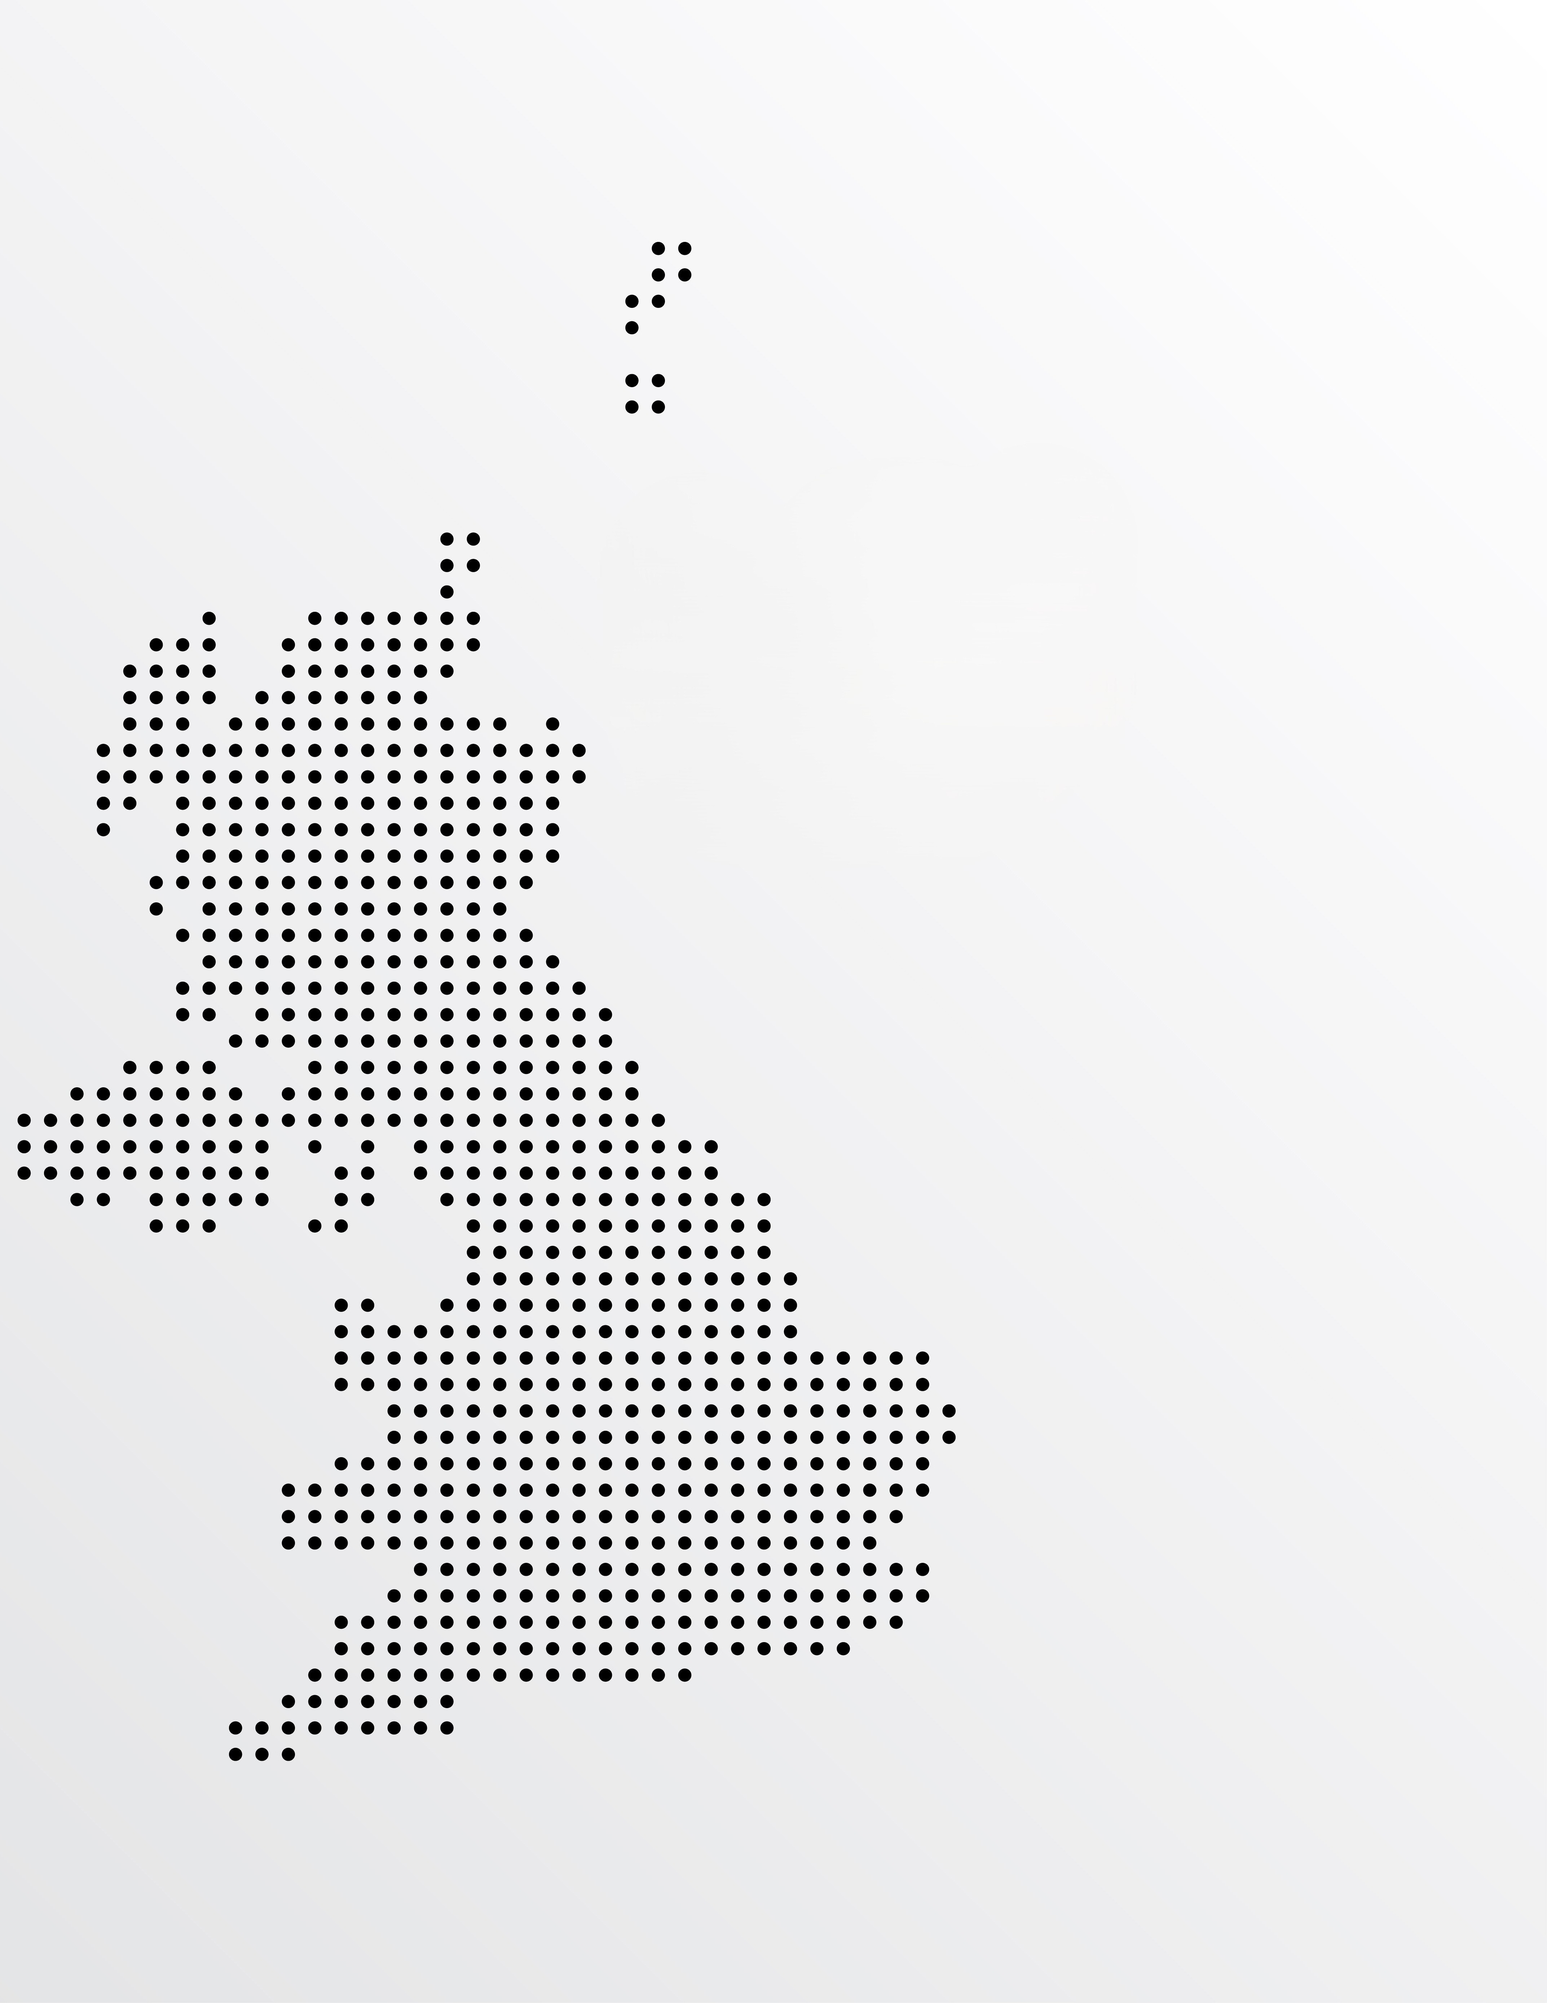
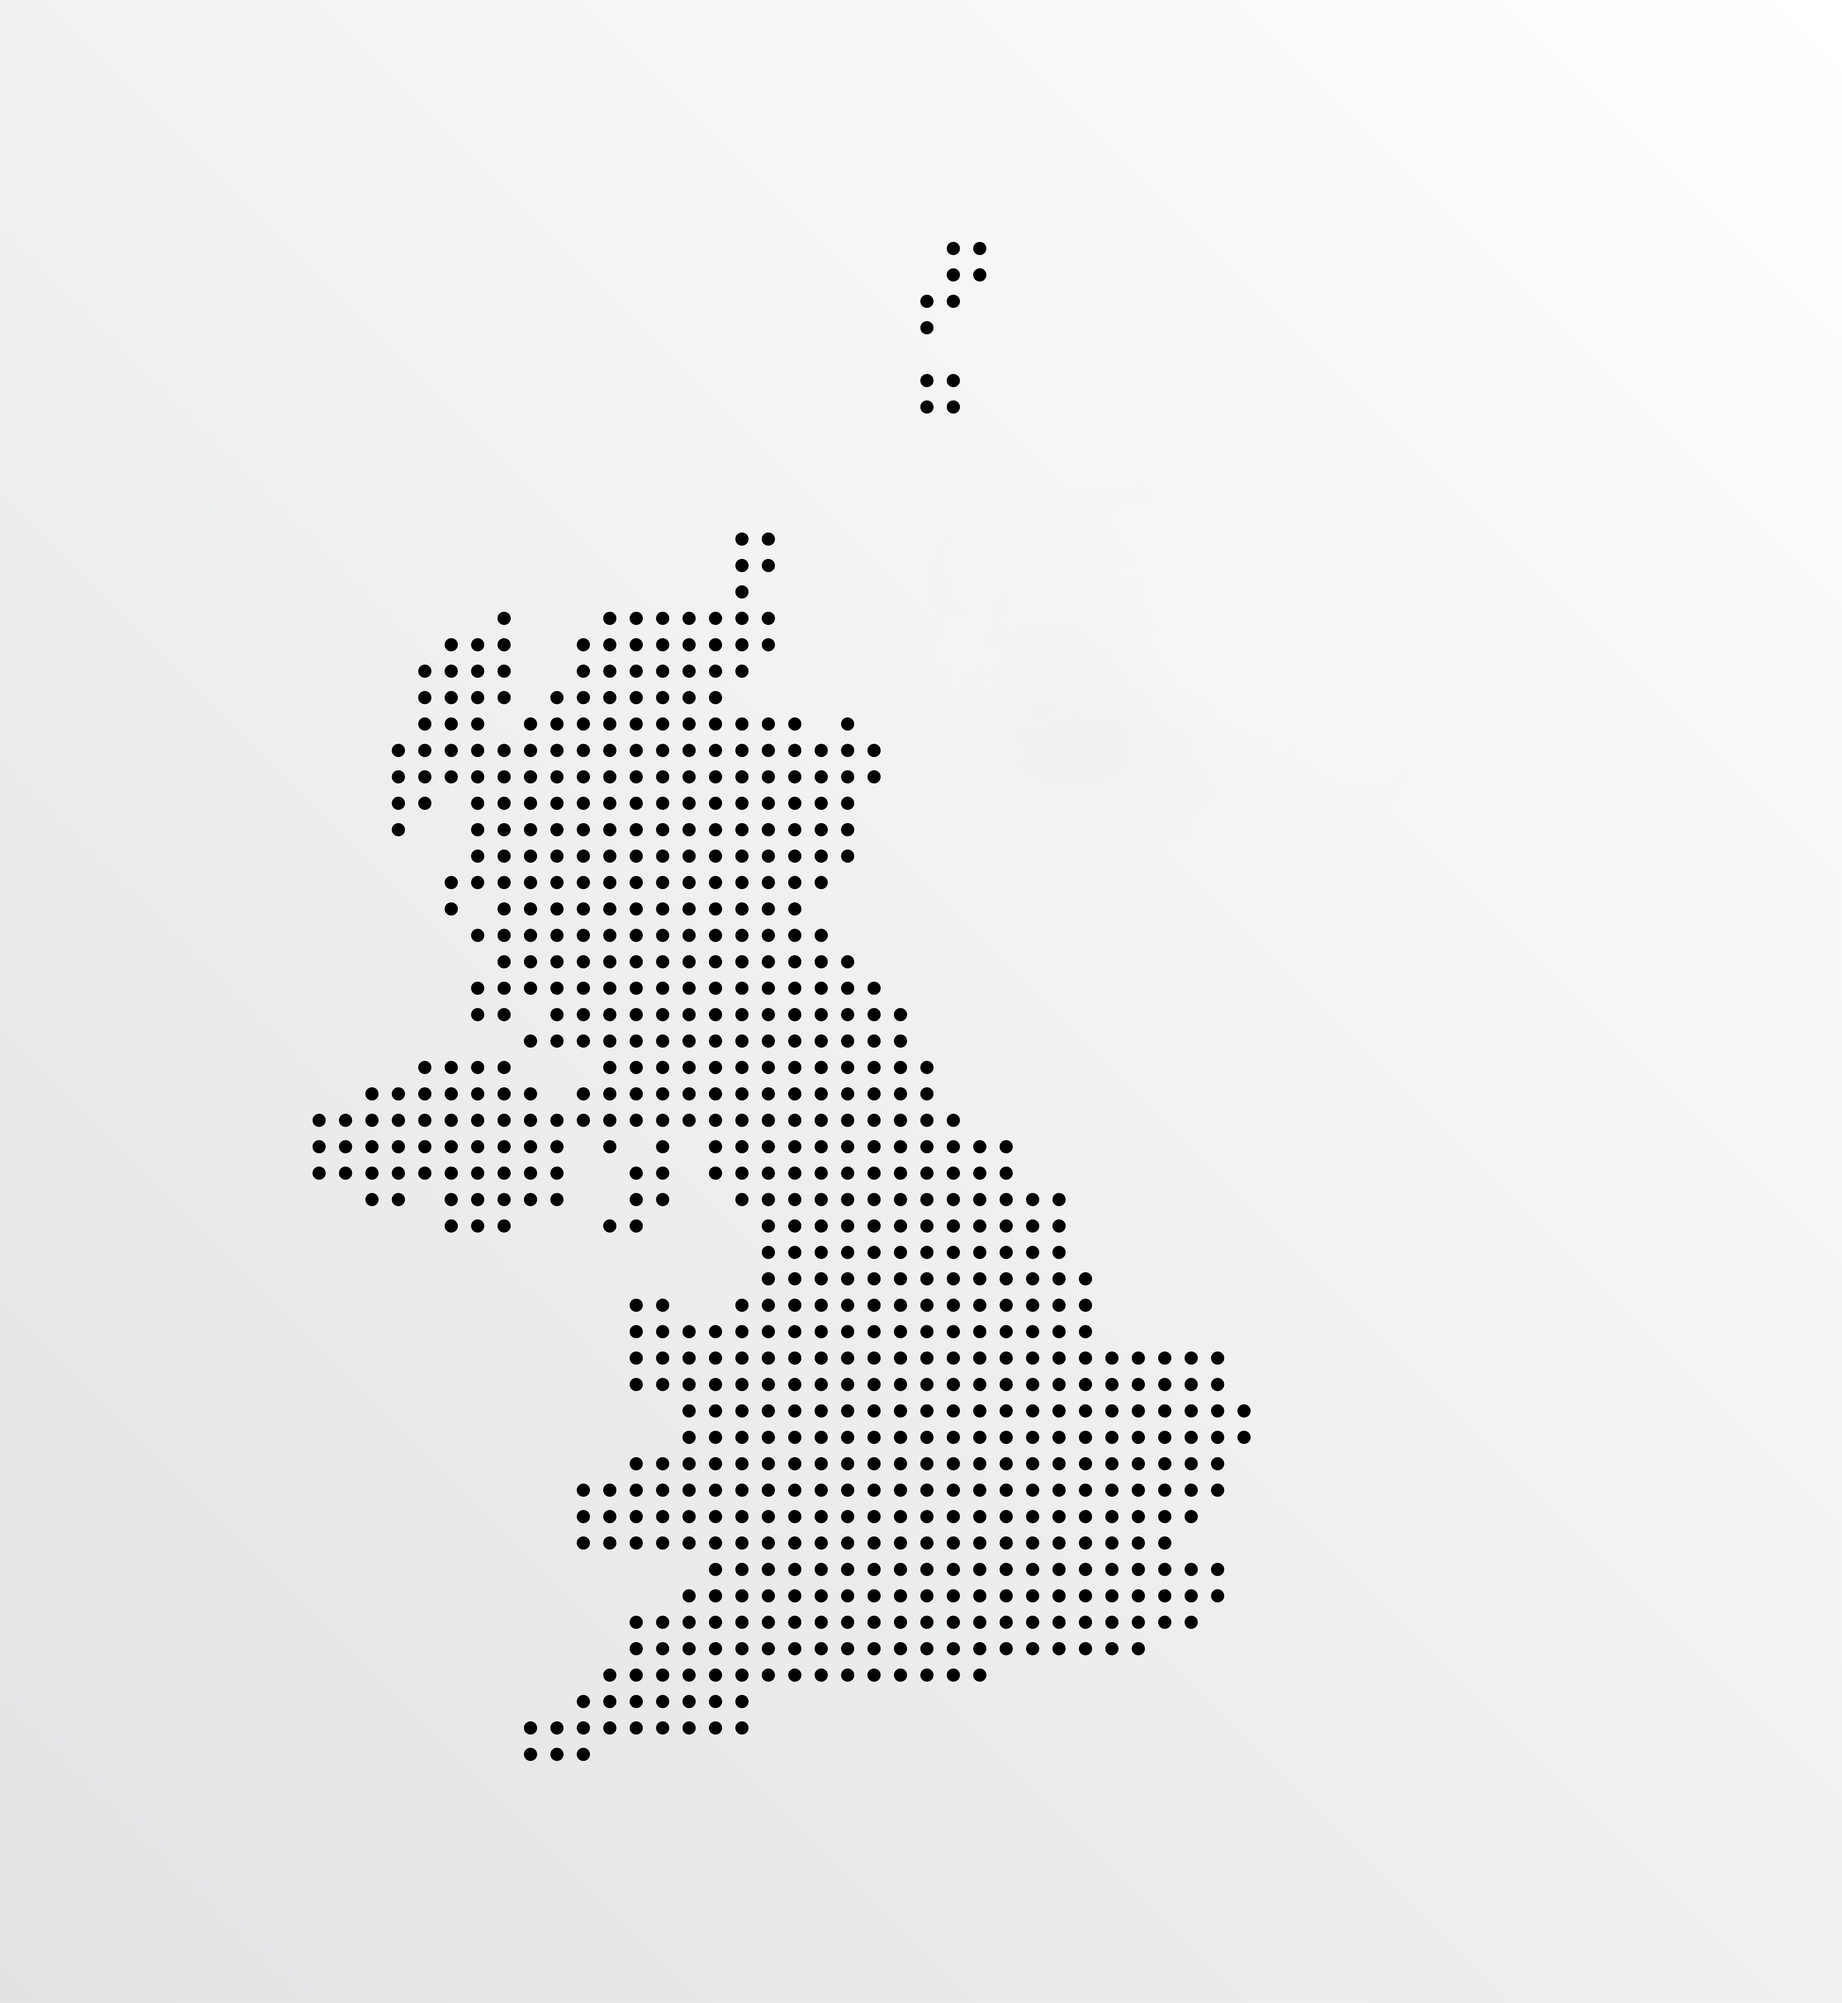
changes is done

diff --git a/test4.html b/test4.html
@@ -132,7 +132,6 @@
 
         .question-everything {
             font-size: 1.5em;
-            text-align: right; 
             width: 100%; 
         }
 
@@ -315,13 +314,13 @@
                 if (rect.top >= 0 && rect.top < window.innerHeight / 2) {
                     if (index === 1) {
                         sidebarcontent.style.display='flex';
-                        sidebarText.innerHTML = `<div class="question-everything-container"><div class="question-everything"><h1>ASK</h1><p>Headquarters based in<br> London, United Kingdom</p></div></div>`;
+                        sidebarText.innerHTML = `<div class="question-everything-container"><div class="question-everything" style="margin-top: 85px;margin-left: 300px"><center><h1 style="font-size: 250%;">ASK</h1></center><p>Headquarters based in<br> London, United Kingdom</p></div></div>`;
                         companyLogo.style.display='none';
                         secoundCompanyLogo.style.display='flex';
                     }
                     if (index === 2) {
                         sidebarcontent.style.display='flex';
-                        sidebarText.innerHTML = `<div class="question-everything-container" style=" margin-left: 100px;"><div class="question-everything"><h1>What We DO</h1></div></div>`;
+                        sidebarText.innerHTML = `<div class="question-everything-container"><div class="question-everything" style="margin-top: 20px;margin-left: 236px"><center><h1 style="font-size: 250%;">What We Do</h1></center></div></div>`;
                         companyLogo.style.display='none';
                         secoundCompanyLogo.style.display='flex';
                     }
